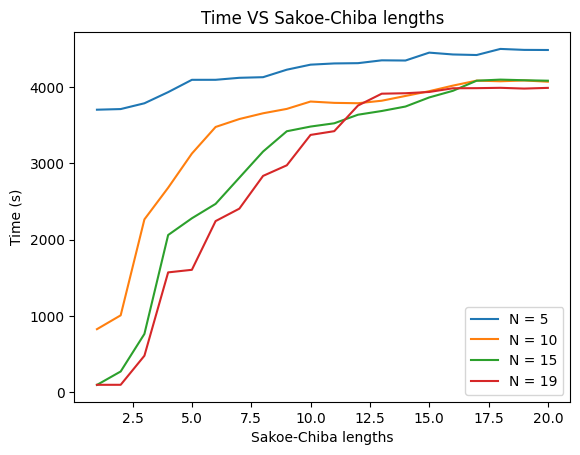
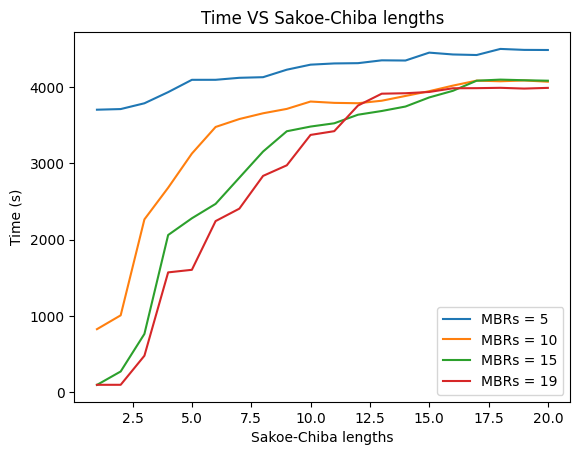
Changed lengend for one plot

Changed region(s): [[0.7448, 0.6769, 0.9, 0.8615]]

diff --git a/query_files/build_MBRS_sc_times_plots.py b/query_files/build_MBRS_sc_times_plots.py
@@ -31,10 +31,10 @@ N_2 = 15
 N_3 = 19
 N_4 = 5
 plt.figure()
-plt.plot(read_file["Sakoe_Chiba"][read_file["N"].isin([N_4])], read_file["Time (s)"][read_file['N'].isin([N_4])], label = "N = 5")
-plt.plot(read_file["Sakoe_Chiba"][read_file["N"].isin([N_1])], read_file["Time (s)"][read_file['N'].isin([N_1])], label = "N = 10")
-plt.plot(read_file["Sakoe_Chiba"][read_file["N"].isin([N_2])], read_file["Time (s)"][read_file['N'].isin([N_2])], label = "N = 15")
-plt.plot(read_file["Sakoe_Chiba"][read_file["N"].isin([N_3])], read_file["Time (s)"][read_file['N'].isin([N_3])], label = "N = 19")
+plt.plot(read_file["Sakoe_Chiba"][read_file["N"].isin([N_4])], read_file["Time (s)"][read_file['N'].isin([N_4])], label = "MBRs = 5")
+plt.plot(read_file["Sakoe_Chiba"][read_file["N"].isin([N_1])], read_file["Time (s)"][read_file['N'].isin([N_1])], label = "MBRs = 10")
+plt.plot(read_file["Sakoe_Chiba"][read_file["N"].isin([N_2])], read_file["Time (s)"][read_file['N'].isin([N_2])], label = "MBRs = 15")
+plt.plot(read_file["Sakoe_Chiba"][read_file["N"].isin([N_3])], read_file["Time (s)"][read_file['N'].isin([N_3])], label = "MBRs = 19")
 plt.legend()
 plt.ylabel('Time (s)')
 plt.xlabel('Sakoe-Chiba lengths')
